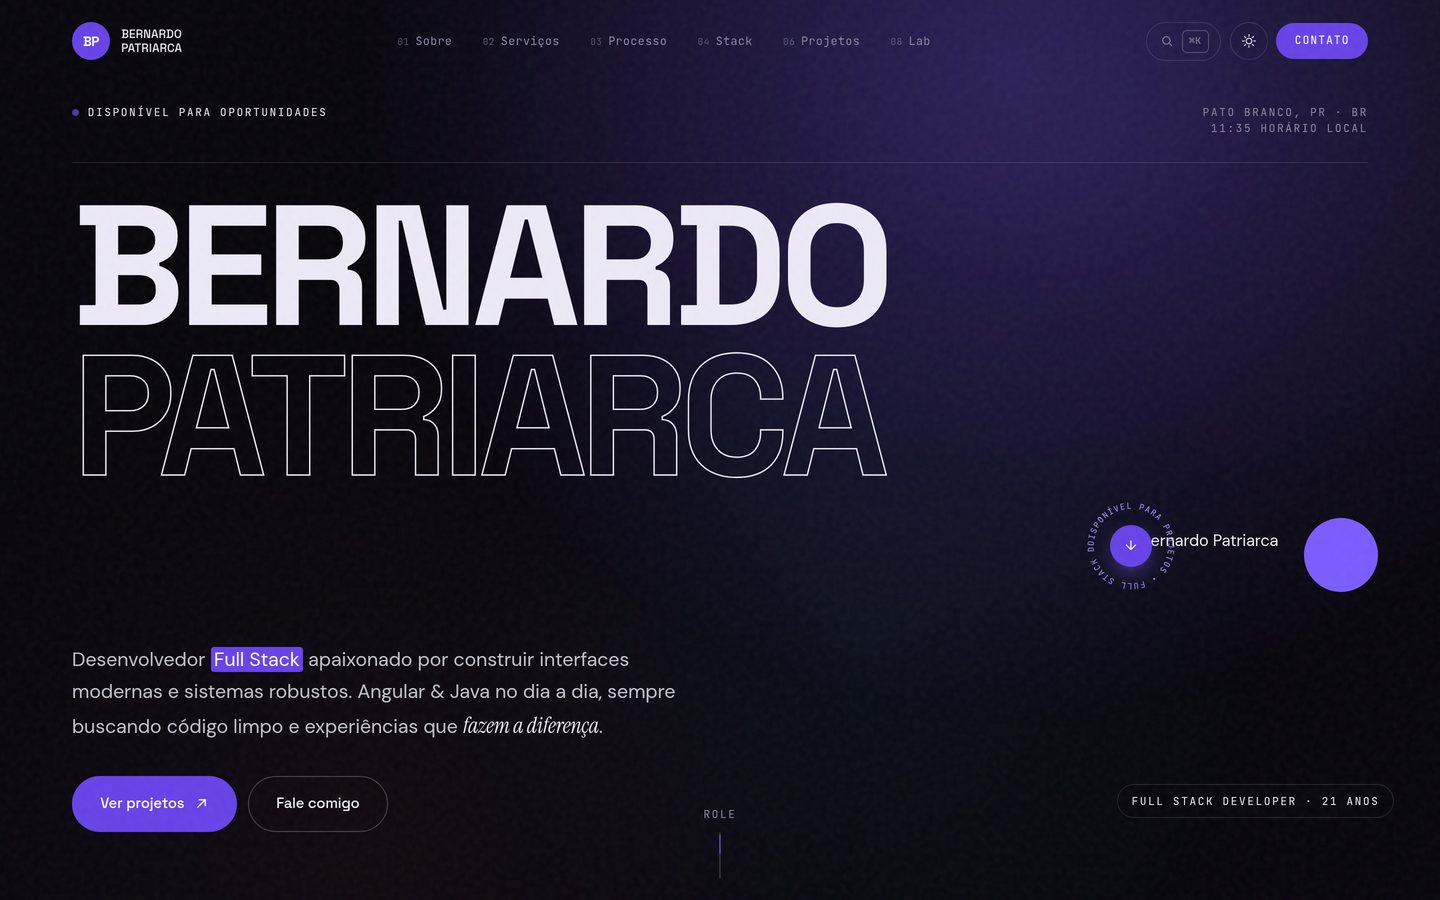
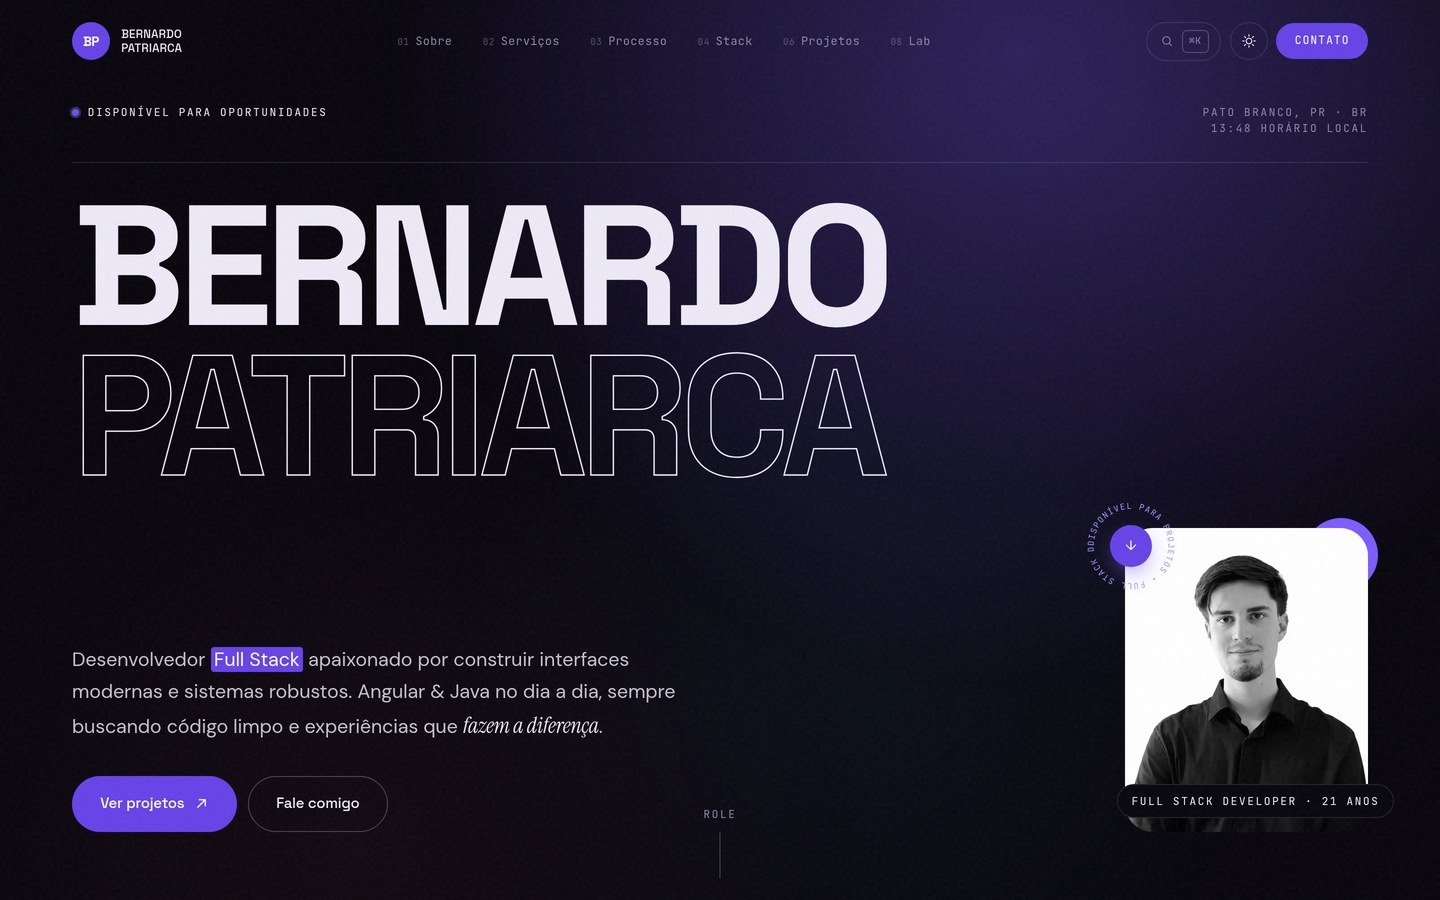
feat: hospeda a foto do hero no repo e atualiza o print do README
A foto vinha do imgur, o que somava um dominio externo ao carregamento do
hero e deixava o retrato a merce de um host de terceiros — no print antigo
do README ela nem chegou a carregar.

- assets/img/bernardo.jpg: foto nova, recortada em 4/5 (mesmo aspect-ratio
  do CSS, entao o object-fit nao corta nada) e reamostrada para 840x1050,
  46 KB.
- index.html aponta para o arquivo local, com width/height reais.
- docs/screenshots/hero.jpg regerado em 1440x900 com a foto no lugar.
- README ganha uma nota sobre o modo baixo consumo, ao lado da de
  movimento reduzido.

Claude-Session: https://claude.ai/code/session_01De7nKTKq7QcoytvhyJcLfg

Changed region(s): [[0.7812, 0.56, 0.9688, 0.8711], [0.7812, 0.9022, 0.8125, 0.9333]]

diff --git a/index.html b/index.html
@@ -156,7 +156,7 @@
           </div>
 
           <figure class="portrait reveal">
-            <img src="https://i.imgur.com/hkx2zWH.jpeg" alt="Bernardo Patriarca" width="420" height="520"
+            <img src="assets/img/bernardo.jpg" alt="Bernardo Patriarca" width="840" height="1050"
               fetchpriority="high" decoding="async" />
             <figcaption class="mono-label">Full Stack Developer · 21 anos</figcaption>
 

diff --git a/README.md b/README.md
@@ -84,6 +84,8 @@ Um arquivo por responsabilidade, tanto no CSS quanto no JS. Nada de `style.css` 
 
 **Movimento é opcional.** `utils/reduced-motion.css` e a flag `reduced` em `core/dom.js` desligam animação, parallax e slideshow para quem pediu menos movimento no sistema.
 
+**Baixo consumo é automático.** Um script inline no `<head>` faz a triagem por núcleos e memória antes do primeiro paint; `core/perf.js` ainda mede o FPS real para pegar GPU fraca ou render por software. Em `[data-perf="low"]` as orbs e o grain param de animar e cursor, magnetic, spotlight e parallax não são iniciados — o layout e as cores continuam iguais.
+
 ## Notas
 
 - O CSS usa `@import`, que carrega em cascata. Em produção com muita latência, vale concatenar os arquivos em um só.
